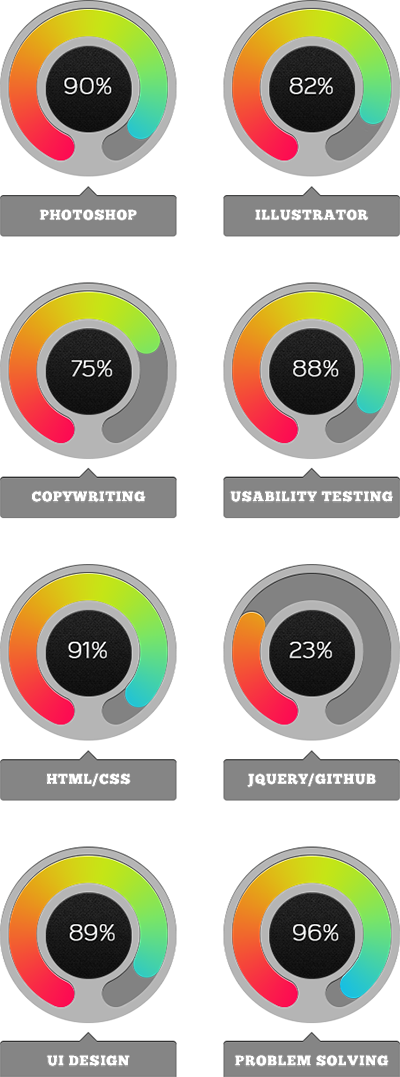
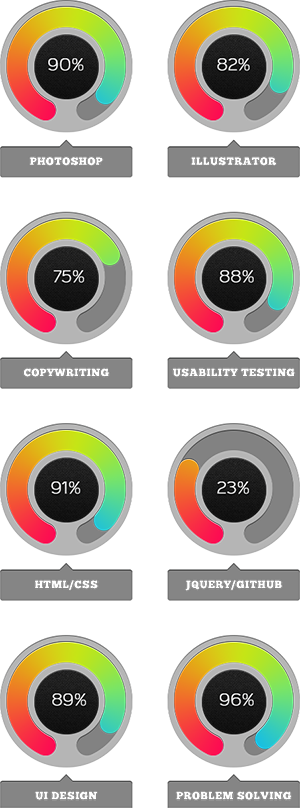
final at media configurations

diff --git a/css/style.css b/css/style.css
@@ -484,7 +484,16 @@ h1 {
 		background: url(../images/backgrounds/768/01.jpg) repeat scroll 50% 0 transparent; 
 	}
 
-	#second, #third, #forth, #fifth, #sixth{
+	#fifth {
+		height: 808px;
+		margin: 0 auto;
+		padding: 50px 0;
+		overflow: hidden;
+		background: url(../images/backgrounds/768/05.png) repeat scroll 50% 0 transparent; 		
+
+	}
+
+	#second, #third, #forth, #sixth{
 		height: 325px;
 		margin: 0 auto;
 		padding: 50px 0;
@@ -553,8 +562,8 @@ h1 {
 	
 	#fifth .skills-container {
 		background: url(../images/skills-2.png) no-repeat scroll 0 0 transparent;
-		width:400px;
-		height:1077px;
+		width:300px;
+		height:808px;
 		margin:0 auto;
 		padding:0;	
 		overflow: hidden;	
